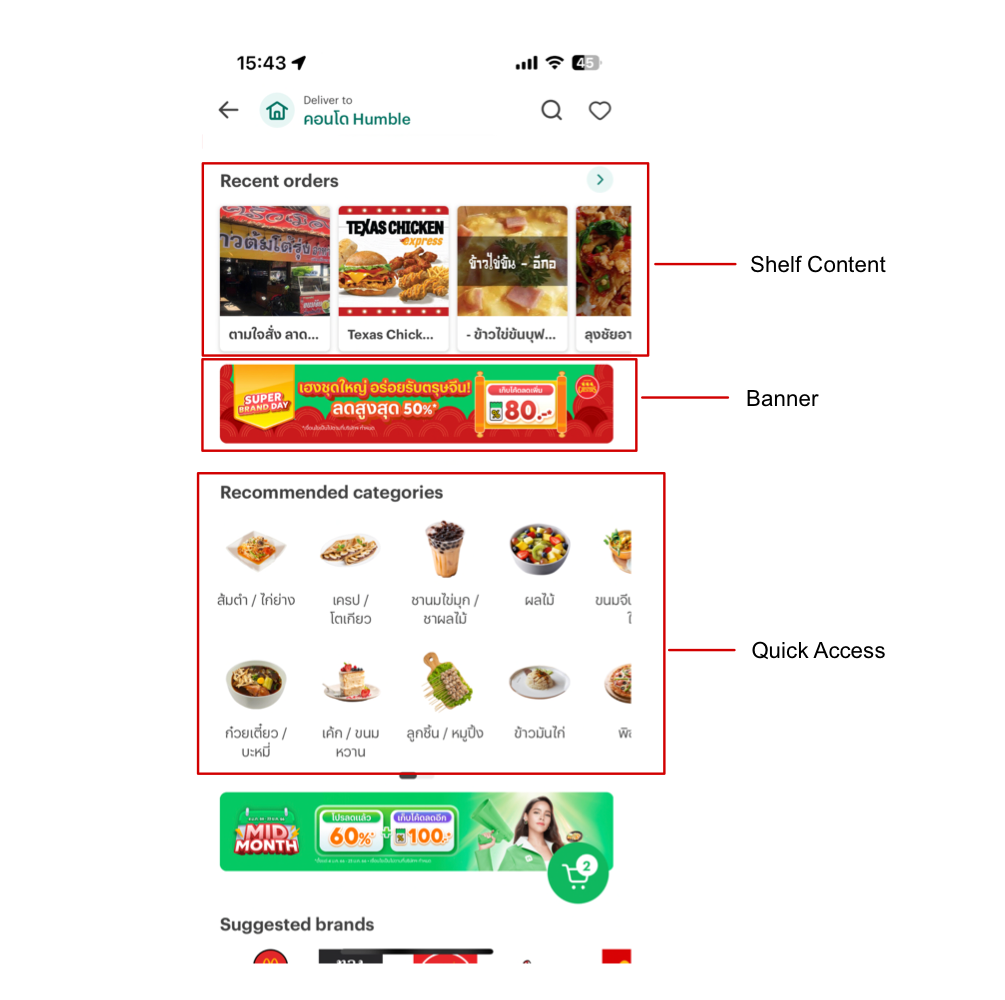
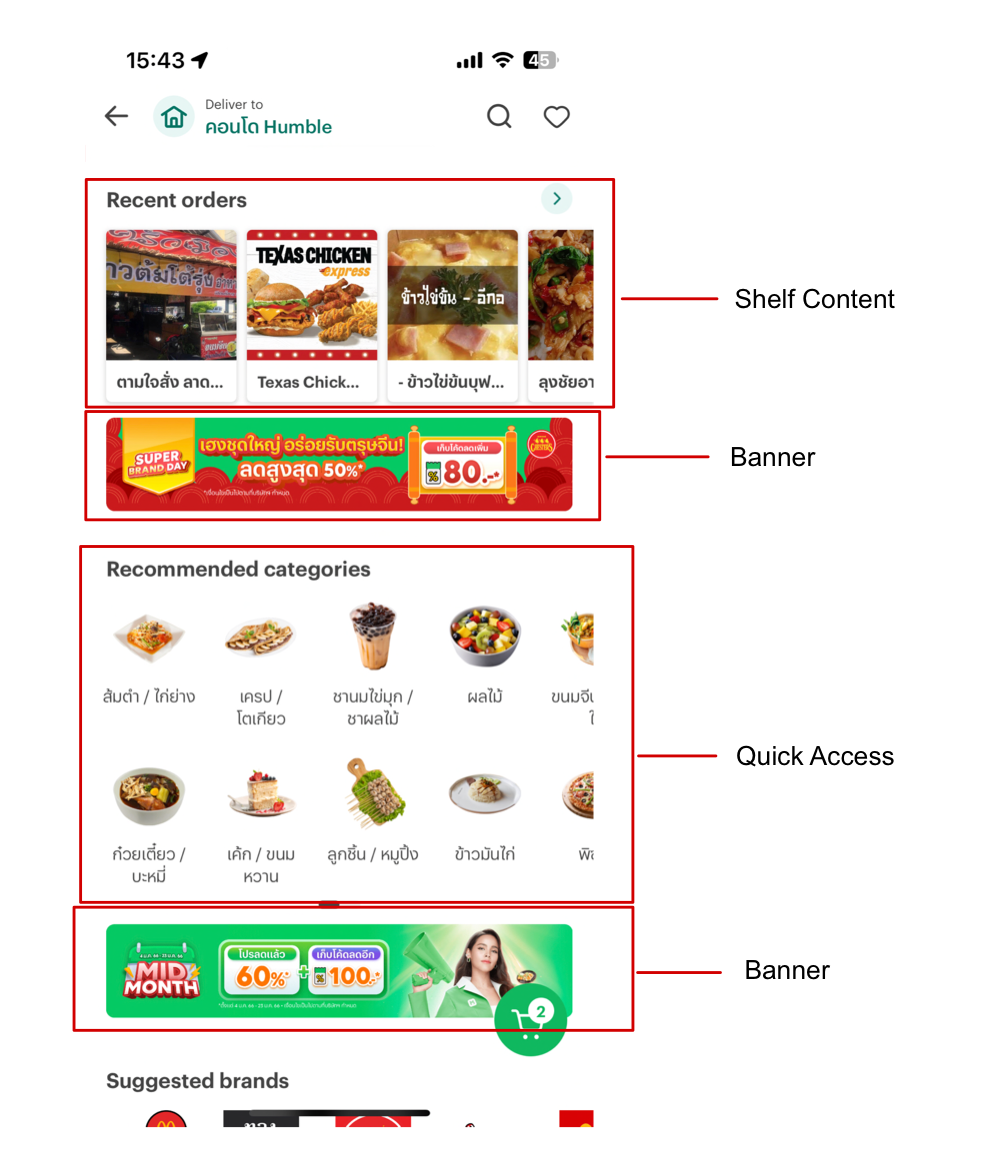
update readme

Changed region(s): [[0.062, 0.031, 0.899, 0.961], [0.744, 0.806, 0.837, 0.837], [0.124, 0.031, 0.217, 0.062]]

diff --git a/poc/data/README.md b/poc/data/README.md
@@ -7,8 +7,8 @@
 | id                      |     Y     |                                    ID of each item                                     |
 | viewType                |     Y     | Component view type [Banner, Quick Access, Shelf Content, Search Bar, Feed Content...] |
 | attributes              |     Y     |                  The field used to define the style of the component                   |
-| attributes.heightPolicy |     Y     |                  The field used to define the style of the component                   |
-| attributes.heightValue  |     Y     |                  The field used to define the style of the component                   |
+| attributes.heightPolicy |     Y     |                                    View height type                                    |
+| attributes.heightValue  |     Y     |                                   View height value                                    |
 | parameters              |           |                           The field used to display directly                           |
 | payload                 |           |   Data payloads that may need to be resolve (can be known by type static or remote)    |
 
@@ -48,15 +48,12 @@
       }
     },
     {
-      "id": "promo_banner",
+      "id": "promo_banner_super_brand",
       "viewType": "Banner",
       "attributes": {
         "heightPolicy": "fixed",
         "heightValue": 50,
         "ratio": "4:1"
-      },
-      "parameters": {
-        "title": null
       },
       "payload": {
         "type": "static",
@@ -93,6 +90,19 @@
             .
           ]
         }
+      }
+    },
+    {
+      "id": "promo_banner_mid_month",
+      "viewType": "Banner",
+      "attributes": {
+        "heightPolicy": "fixed",
+        "heightValue": 50,
+        "ratio": "4:1"
+      },
+      "payload": {
+        "type": "remote",
+        "resolvedWith": "get-banner-image"
       }
     }
   ]
